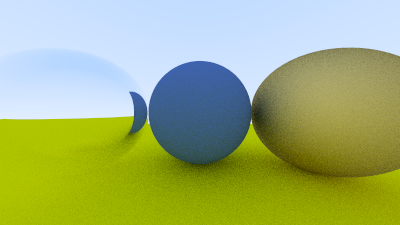
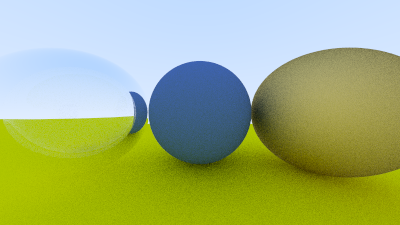
schlick approximation

Changed region(s): [[0.0, 0.4356, 0.36, 0.7156], [0.51, 0.7156, 0.54, 0.7467]]

diff --git a/src/material.rs b/src/material.rs
@@ -1,3 +1,5 @@
+use rand::{Rng, thread_rng};
+
 use crate::hittable::HitRecord;
 use crate::ray::Ray;
 use crate::vec3::{Color, Vec3};
@@ -74,6 +76,13 @@ impl Dielectric {
             color: Color::new(1., 1., 1.),
         }
     }
+
+    /// Schlick's approximation for reflectance
+    fn reflectance(cosine: f64, refraction_index: f64) -> f64 {
+        let r0 = (1. - refraction_index) / (1. + refraction_index);
+        let r0 = r0.powi(2);
+        (1. - r0).mul_add((1. - cosine).powi(5), r0)
+    }
 }
 
 impl Material for Dielectric {
@@ -89,12 +98,14 @@ impl Material for Dielectric {
         let cos_theta = (-&unit_direction).dot(hit_record.normal()).min(1.0);
         let sin_theta = cos_theta.mul_add(-cos_theta, 1.0).sqrt();
 
+        let mut rng = thread_rng();
         let cannot_refract = refraction_ratio * sin_theta > 1.0;
-        let direction = if cannot_refract {
-            unit_direction.reflect(hit_record.normal())
-        } else {
-            unit_direction.refract(hit_record.normal(), refraction_ratio)
-        };
+        let direction =
+            if cannot_refract || Self::reflectance(cos_theta, refraction_ratio) > rng.gen() {
+                unit_direction.reflect(hit_record.normal())
+            } else {
+                unit_direction.refract(hit_record.normal(), refraction_ratio)
+            };
 
         let scattered = Ray::new(hit_record.p().clone(), direction);
         Some((&self.color, scattered))
